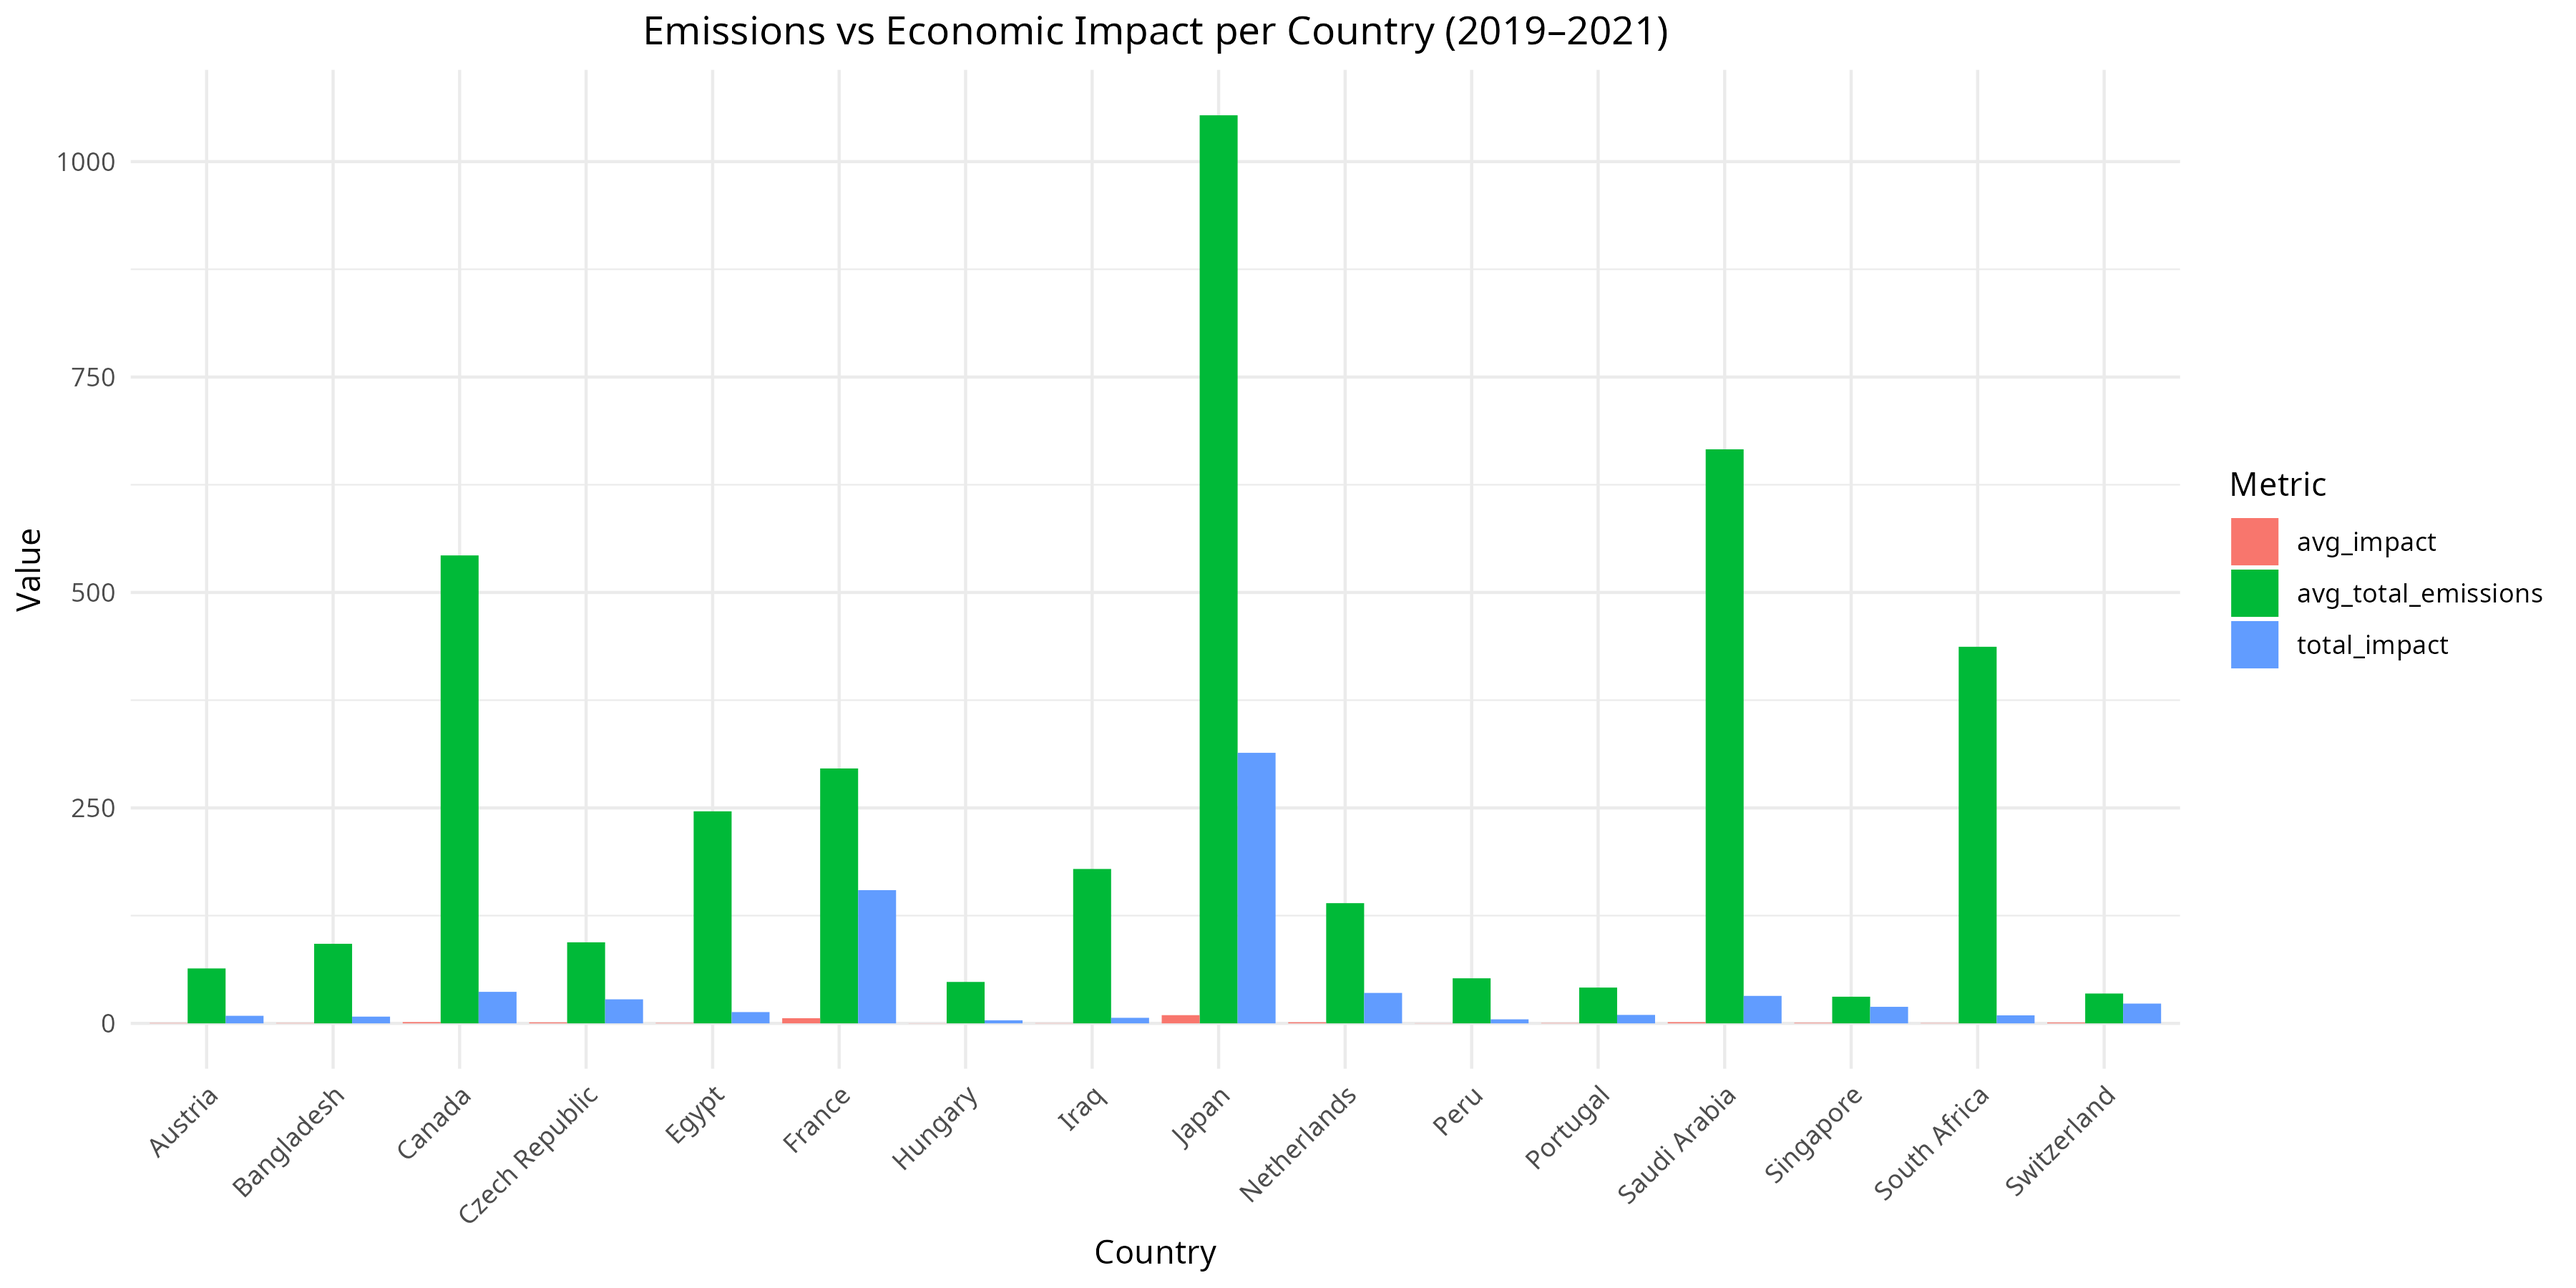
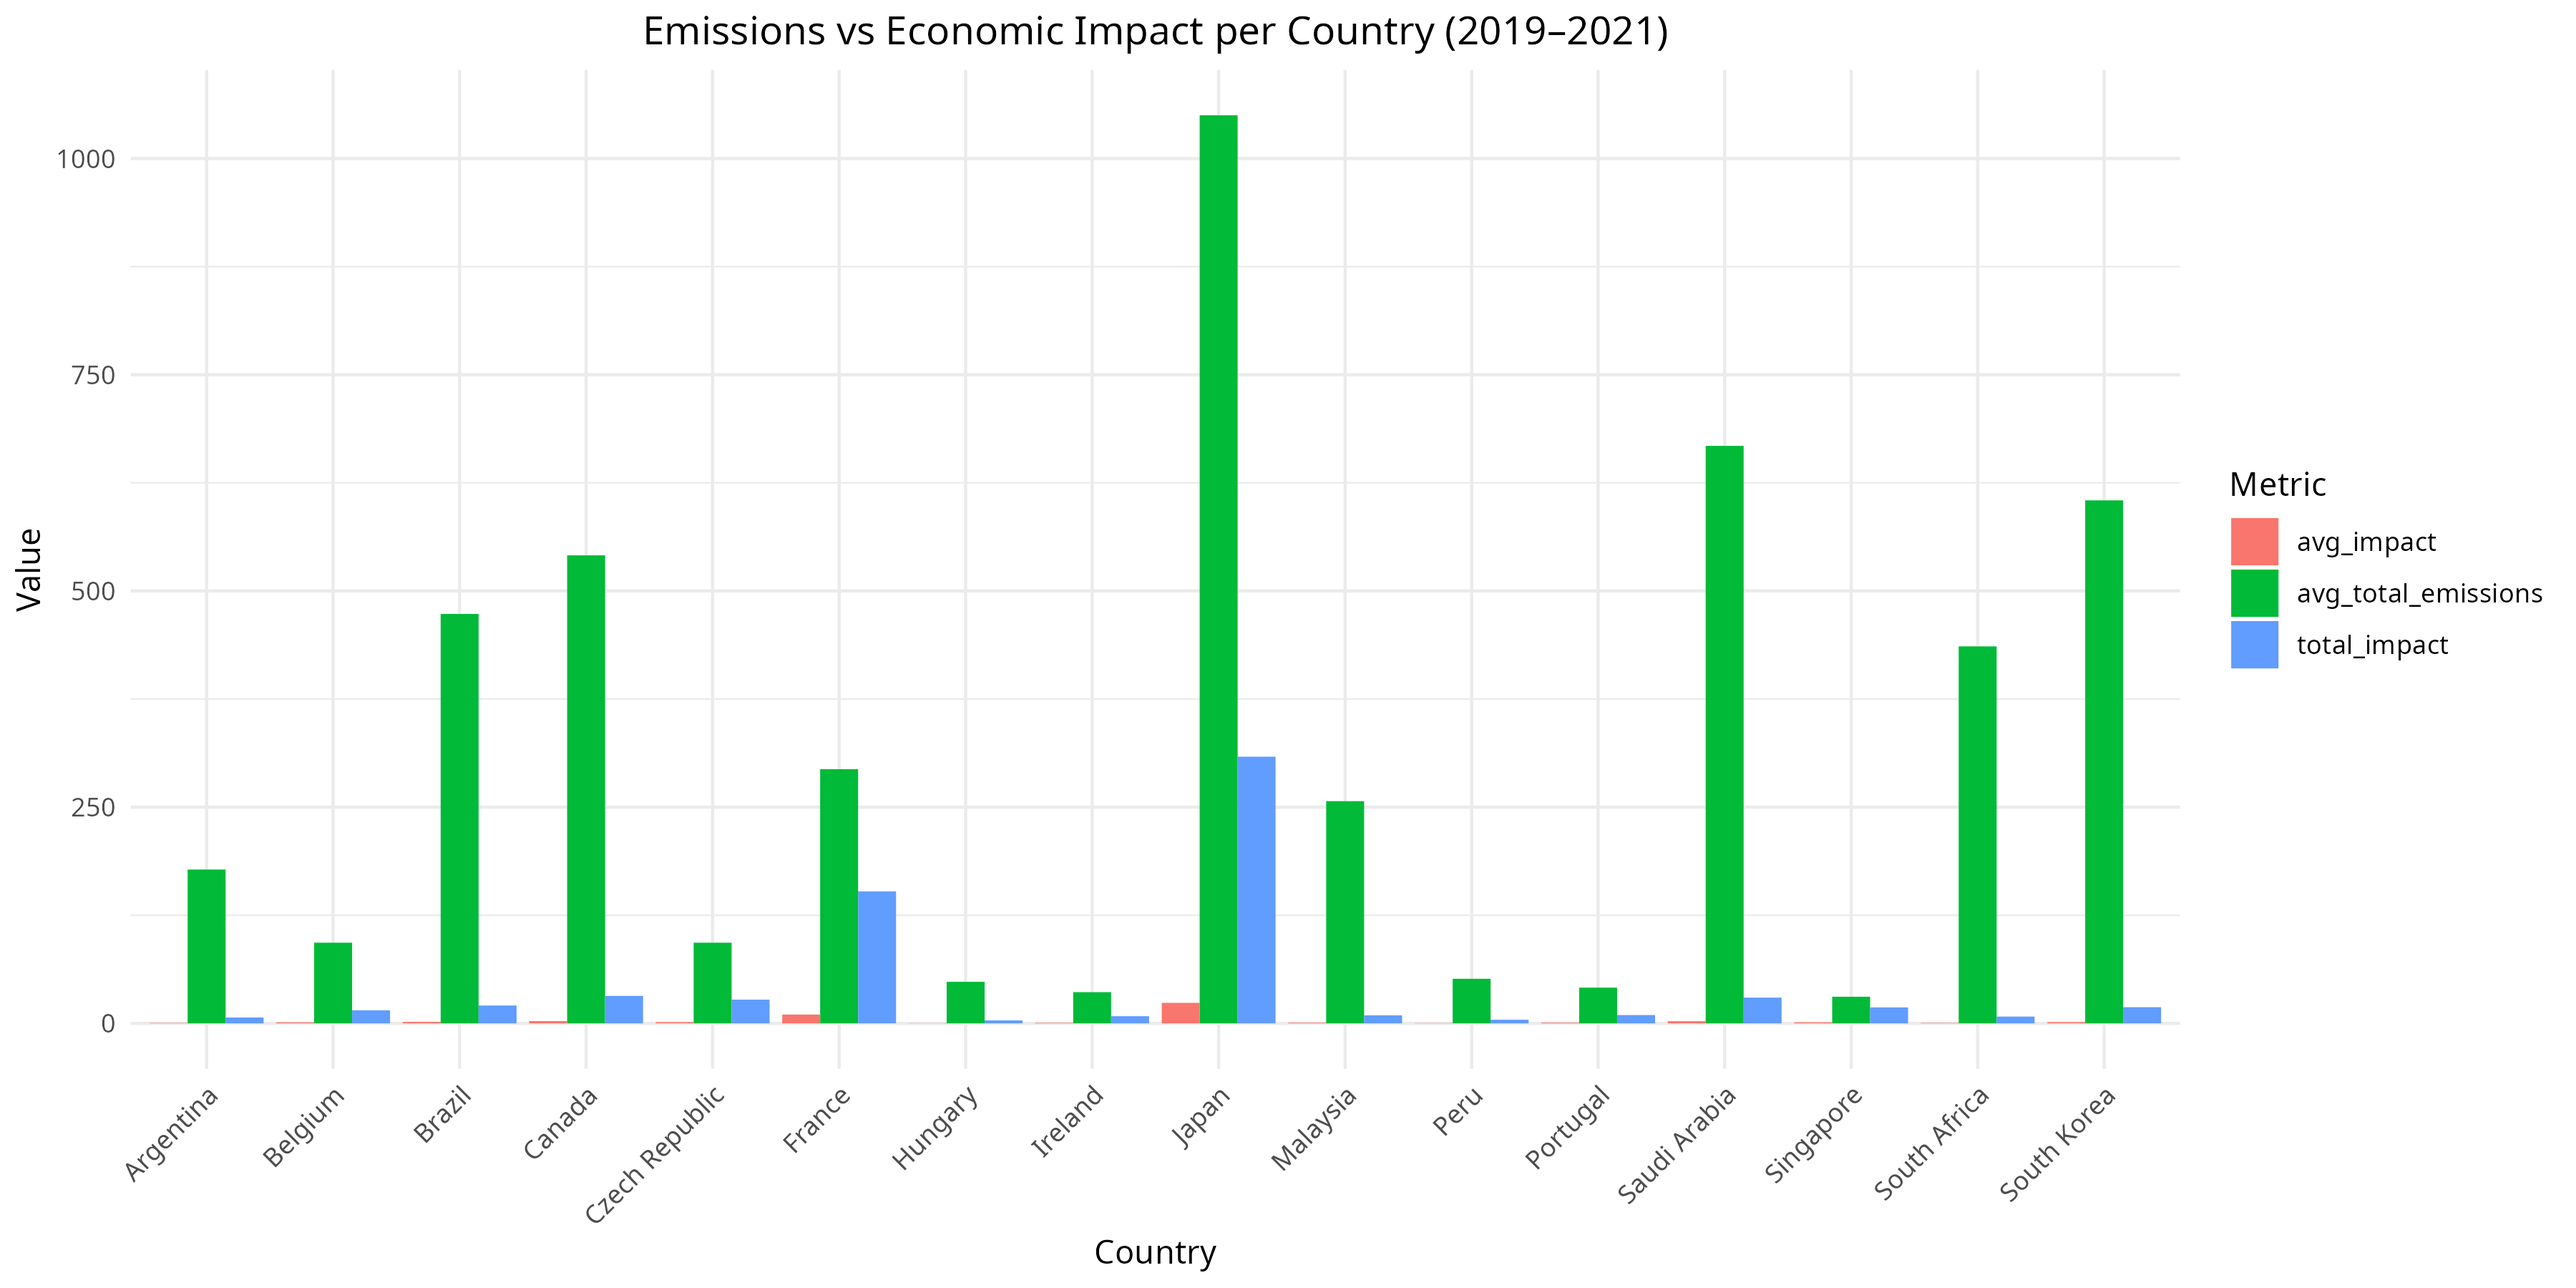
m

diff --git a/team1_part4.py b/team1_part4.py
@@ -109,7 +109,7 @@ SELECT
     AVG(CAST(EconomicImpact AS DECIMAL(18,2))) AS avg_impact, /* average impact of each event */
     SUM(CAST(EconomicImpact AS DECIMAL(18,2))) AS total_impact /* total impact on country*/
 FROM Events
-WHERE Year IN ('2019','2020','2021')
+WHERE Year IN ('2019','2020','2021') AND event_type IN ('Drought','Heatwave','Wildfire','Cold Wave','Flood','Landslide')
 GROUP BY Country
 ORDER BY event_count DESC
 LIMIT 30
